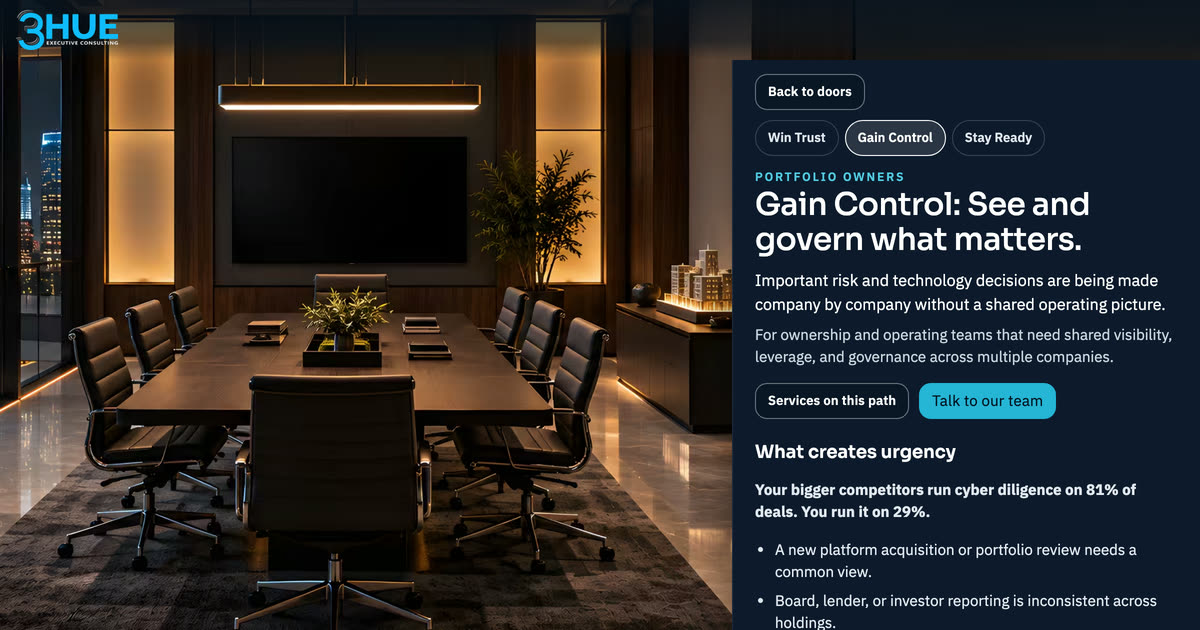
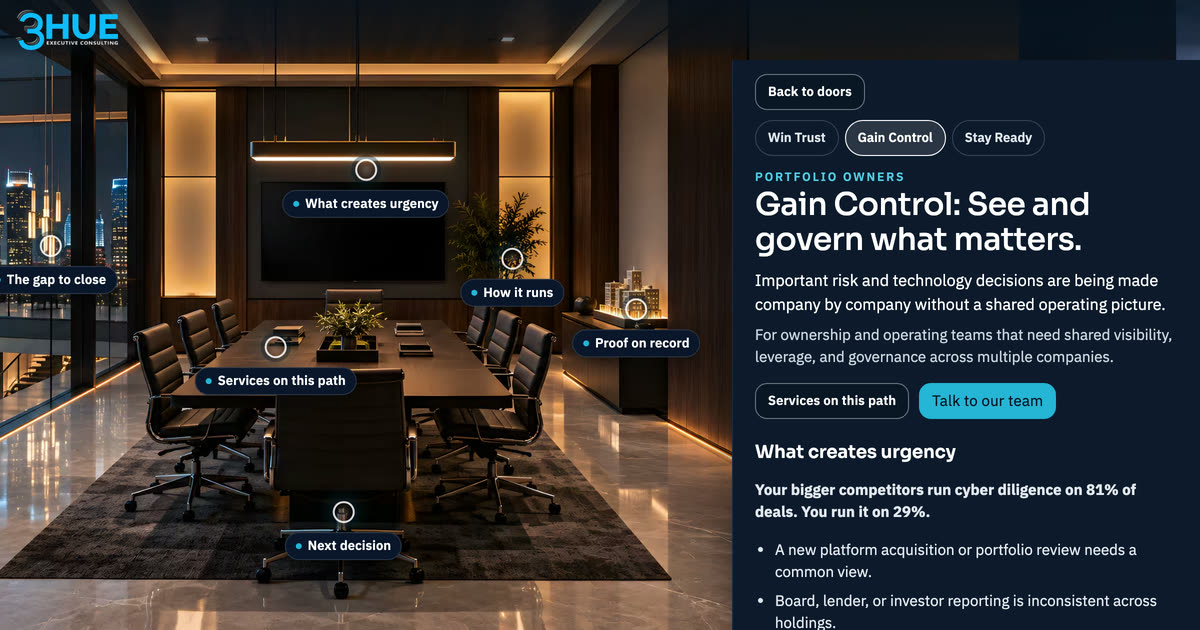
Share cards re-baked from the published page; copy sheets; bots and Lighthouse helpers

diff --git a/js/main.js b/js/main.js
@@ -1,17 +1,17 @@
 // Boot: manifests → plate → stage → doors/labels/hud → panel/path/walk → router.
-import { loadContent, getManifest, getGeometry, getParams, str } from './content.js?v=2026-09-10b';
-import { layout, rest, place, buildPicture, setLayer, getState, setResizeHandler, warmRoom, showRoom, hideRoom, whenRoomHidden } from './stage.js?v=2026-09-10b';
-import { buildDoors, setCurrent, hideDoors, showDoors, doorElement, pathElement, firstDoorElement } from './hotspots.js?v=2026-09-10b';
-import { buildLabels, headingElement } from './labels.js?v=2026-09-10b';
-import { buildHud, rowElement, walkButton } from './hud.js?v=2026-09-10b';
-import { parse, go, back, onRoute, currentRoute } from './router.js?v=2026-09-10b';
-import { initDebug } from './debug.js?v=2026-09-10b';
-import { openDoorPanel, openPathPanel, closePanel, panelHeading, setPanelStation, showStationChips } from './panel.js?v=2026-09-10b';
-import { pushLayer, popLayer, resetLayers } from './focus.js?v=2026-09-10b';
-import { lightStage, clearArcs, buildArcs } from './path.js?v=2026-09-10b';
-import { initKiosk, placeKiosk } from './kiosk.js?v=2026-09-10b';
-import { initWalk, startWalk, endWalk, isWalking, walkStep } from './walk.js?v=2026-09-10b';
-import { initRooms, roomFor, showRoomPins, clearRoomPins, probeFormats } from './rooms.js?v=2026-09-10b';
+import { loadContent, getManifest, getGeometry, getParams, str } from './content.js?v=2026-09-10c';
+import { layout, rest, place, buildPicture, setLayer, getState, setResizeHandler, warmRoom, showRoom, hideRoom, whenRoomHidden } from './stage.js?v=2026-09-10c';
+import { buildDoors, setCurrent, hideDoors, showDoors, doorElement, pathElement, firstDoorElement } from './hotspots.js?v=2026-09-10c';
+import { buildLabels, headingElement } from './labels.js?v=2026-09-10c';
+import { buildHud, rowElement, walkButton } from './hud.js?v=2026-09-10c';
+import { parse, go, back, onRoute, currentRoute } from './router.js?v=2026-09-10c';
+import { initDebug } from './debug.js?v=2026-09-10c';
+import { openDoorPanel, openPathPanel, closePanel, panelHeading, setPanelStation, showStationChips } from './panel.js?v=2026-09-10c';
+import { pushLayer, popLayer, resetLayers } from './focus.js?v=2026-09-10c';
+import { lightStage, clearArcs, buildArcs } from './path.js?v=2026-09-10c';
+import { initKiosk, placeKiosk } from './kiosk.js?v=2026-09-10c';
+import { initWalk, startWalk, endWalk, isWalking, walkStep } from './walk.js?v=2026-09-10c';
+import { initRooms, roomFor, showRoomPins, clearRoomPins, probeFormats } from './rooms.js?v=2026-09-10c';
 
 const plateEl = document.getElementById('plate');
 const params = getParams();

diff --git a/js/walk.js b/js/walk.js
@@ -1,14 +1,14 @@
 // The captioned walk: visitor-paced, no timers, no audio. Steps are built from the manifest —
 // lobby, each door, each stage, the kiosk (skipped when hidden or composed), Talk, end. The bar
 // keeps focus on Next; Left/Right step; Escape or End walk returns to the resting lobby.
-import { getManifest, getGeometry, str, esc, kioskLines, stageName } from './content.js?v=2026-09-10b';
-import { getState, place, rest } from './stage.js?v=2026-09-10b';
-import { kioskElement, kioskCentroid, kioskVisibleAt } from './kiosk.js?v=2026-09-10b';
-import { hideDoors, showDoors, setCurrent } from './hotspots.js?v=2026-09-10b';
-import { lightStage, clearArcs } from './path.js?v=2026-09-10b';
-import { pushLayer, resetLayers } from './focus.js?v=2026-09-10b';
-import { walkButton } from './hud.js?v=2026-09-10b';
-import { setLayer } from './stage.js?v=2026-09-10b';
+import { getManifest, getGeometry, str, esc, kioskLines, stageName } from './content.js?v=2026-09-10c';
+import { getState, place, rest } from './stage.js?v=2026-09-10c';
+import { kioskElement, kioskCentroid, kioskVisibleAt } from './kiosk.js?v=2026-09-10c';
+import { hideDoors, showDoors, setCurrent } from './hotspots.js?v=2026-09-10c';
+import { lightStage, clearArcs } from './path.js?v=2026-09-10c';
+import { pushLayer, resetLayers } from './focus.js?v=2026-09-10c';
+import { walkButton } from './hud.js?v=2026-09-10c';
+import { setLayer } from './stage.js?v=2026-09-10c';
 
 const bar = document.getElementById('walk');
 const live = document.getElementById('walk-live');

diff --git a/js/kiosk.js b/js/kiosk.js
@@ -1,9 +1,9 @@
 // The kiosk: a display-only surface perspective-mapped onto the painted screen. Mounts only once
 // geometry.kiosk.quad exists (two independent measurements agreeing within 2 px). Hidden, never
 // squashed, when a line would render under 12 px or a corner leaves the frame by more than 2 px.
-import { getManifest, getGeometry, kioskLines, esc } from './content.js?v=2026-09-10b';
-import { onLayout, getState, project, viewport } from './stage.js?v=2026-09-10b';
-import { quadToMatrix3d, quadSize } from './screens.js?v=2026-09-10b';
+import { getManifest, getGeometry, kioskLines, esc } from './content.js?v=2026-09-10c';
+import { onLayout, getState, project, viewport } from './stage.js?v=2026-09-10c';
+import { quadToMatrix3d, quadSize } from './screens.js?v=2026-09-10c';
 
 const mount = document.getElementById('kiosk-mount');
 let el = null, size = null;

diff --git a/js/rooms.js b/js/rooms.js
@@ -1,8 +1,8 @@
 // Rendered rooms (O5). A door whose manifest entry carries room.render opens onto its render;
 // station pins inside the room go to the same panel sections the chips do. `?rooms=0` turns the
 // layer off (spec-as-written behaviour); `?room-preview=<path>` mounts a candidate for the gate.
-import { getManifest, getGeometry, getParams, str, esc } from './content.js?v=2026-09-10b';
-import { onLayout, roomToScreen, getState } from './stage.js?v=2026-09-10b';
+import { getManifest, getGeometry, getParams, str, esc } from './content.js?v=2026-09-10c';
+import { onLayout, roomToScreen, getState } from './stage.js?v=2026-09-10c';
 
 const pinsEl = document.getElementById('room-pins');
 let pins = [];

diff --git a/js/hotspots.js b/js/hotspots.js
@@ -2,8 +2,8 @@
 // plate px; the ring sits on the doorway centre and the chip hangs below it, both counter-scaled
 // so they keep their screen size. Composed viewports show numbered rings only (rows carry the
 // names). Plates (hover/focus, fine pointers) list what is behind the door.
-import { getManifest, getGeometry, str, esc, stageName } from './content.js?v=2026-09-10b';
-import { onLayout, getState, project, viewport } from './stage.js?v=2026-09-10b';
+import { getManifest, getGeometry, str, esc, stageName } from './content.js?v=2026-09-10c';
+import { onLayout, getState, project, viewport } from './stage.js?v=2026-09-10c';
 
 const host = document.getElementById('doors');
 let doors = [];

diff --git a/index.html b/index.html
@@ -28,7 +28,7 @@
 // has been applied without animation.
 (function () { if (/^#\/(door|path)/.test(location.hash)) document.documentElement.setAttribute('data-lobby-boot', '1'); })();
 </script>
-<link rel="stylesheet" href="css/experience.css?v=2026-09-10b">
+<link rel="stylesheet" href="css/experience.css?v=2026-09-10c">
 </head>
 <body>
 
@@ -86,6 +86,6 @@
 <div id="walk" class="walk" hidden></div>
 <div id="walk-live" class="sr" aria-live="polite" aria-atomic="true"></div>
 
-<script type="module" src="js/main.js?v=2026-09-10b"></script>
+<script type="module" src="js/main.js?v=2026-09-10c"></script>
 </body>
 </html>

diff --git a/js/labels.js b/js/labels.js
@@ -1,7 +1,7 @@
 // Live labels painted into plate space (door signs, tower stage names) and the heading block,
 // which sits outside the stage and is placed from the plate transform by the 2a rule.
-import { getManifest, getGeometry, esc } from './content.js?v=2026-09-10b';
-import { onLayout, getState, viewport, headerH } from './stage.js?v=2026-09-10b';
+import { getManifest, getGeometry, esc } from './content.js?v=2026-09-10c';
+import { onLayout, getState, viewport, headerH } from './stage.js?v=2026-09-10c';
 
 const labelsEl = document.getElementById('labels');
 const introEl = document.getElementById('intro');

diff --git a/js/panel.js b/js/panel.js
@@ -1,7 +1,7 @@
 // The docked panel (bottom sheet when composed): one template for a door, one for the path.
 // Every string comes from the manifest; this file only arranges them.
-import { getManifest, str, esc, resolveHref, stageName } from './content.js?v=2026-09-10b';
-import { getState } from './stage.js?v=2026-09-10b';
+import { getManifest, str, esc, resolveHref, stageName } from './content.js?v=2026-09-10c';
+import { getState } from './stage.js?v=2026-09-10c';
 
 const panel = document.getElementById('panel');
 let mode = null; // 'door' | 'path'

diff --git a/js/debug.js b/js/debug.js
@@ -1,6 +1,6 @@
 // ?debug=1: draw every geometry item on the plate and expose window.__lobby for the checks.
-import { getManifest, getGeometry, getParams } from './content.js?v=2026-09-10b';
-import { getState, project, projectRect, onLayout, frameRect } from './stage.js?v=2026-09-10b';
+import { getManifest, getGeometry, getParams } from './content.js?v=2026-09-10c';
+import { getState, project, projectRect, onLayout, frameRect } from './stage.js?v=2026-09-10c';
 
 const svg = document.getElementById('debug');
 const NS = 'http://www.w3.org/2000/svg';

diff --git a/js/stage.js b/js/stage.js
@@ -6,7 +6,7 @@
 // the plate always covers the whole stage. Composed viewports (phones, portrait, short) fit the
 // plate into the band the layout reserves for it, showing plate x 344.5..2514.8 so all three
 // doors are on screen.
-import { getGeometry, reducedMotion } from './content.js?v=2026-09-10b';
+import { getGeometry, reducedMotion } from './content.js?v=2026-09-10c';
 
 const stageEl = document.getElementById('stage');
 const plateEl = document.getElementById('plate');

diff --git a/js/path.js b/js/path.js
@@ -1,7 +1,7 @@
 // The maturity path: the four ring arcs on the tower, lit one at a time during the climb.
 // Arc geometry is an SVG path in plate px measured in the geometry tool; until measured, a flat
 // arc is synthesised across the label position so the climb still reads.
-import { getGeometry } from './content.js?v=2026-09-10b';
+import { getGeometry } from './content.js?v=2026-09-10c';
 
 const svg = document.getElementById('arcs');
 const paths = new Map();

diff --git a/js/hud.js b/js/hud.js
@@ -1,5 +1,5 @@
 // Header actions and the composed layout's rows and footer.
-import { getManifest, str, esc, resolveHref } from './content.js?v=2026-09-10b';
+import { getManifest, str, esc, resolveHref } from './content.js?v=2026-09-10c';
 
 const rows = document.getElementById('floor-rows');
 const foot = document.getElementById('floor-foot');
